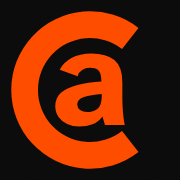
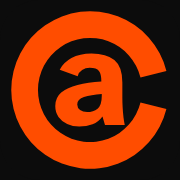
Tighten the mark arc to a 28° right slot
The old 104° opening read as a C. Copy the store originals into brand/
and rebuild favicon.ico from the transparent orange mark so the tab
icon stays tile-free.

diff --git a/brand/README.md b/brand/README.md
@@ -1,6 +1,6 @@
 # agens mark
 
-Lowercase Atkinson Hyperlegible Bold `a` (Braille Institute, SIL Open Font License) converted to paths, centered in a circular arc. The arc is a constant-radius ring and can read as a C. No webfont at render time.
+Lowercase Atkinson Hyperlegible Bold `a` (Braille Institute, SIL Open Font License) converted to paths, centered in a circular arc. The arc is a constant-radius ring, open 28° on the right so it reads as @. No webfont at render time.
 
 | File | |
 |---|---|
